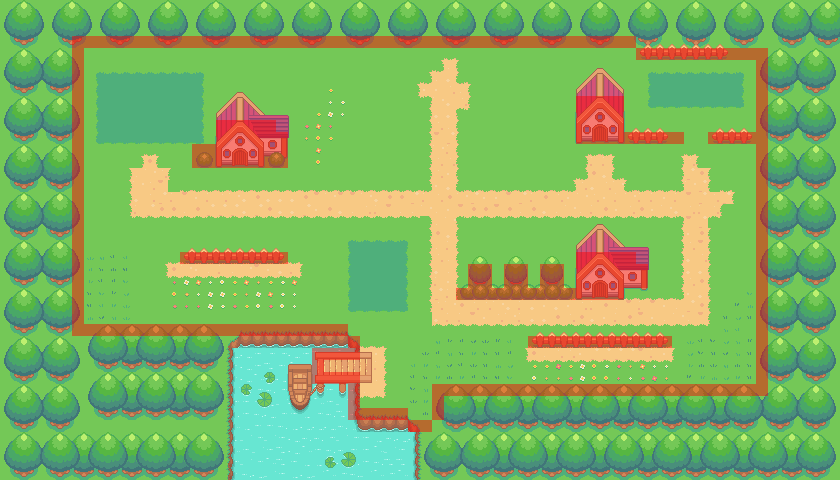
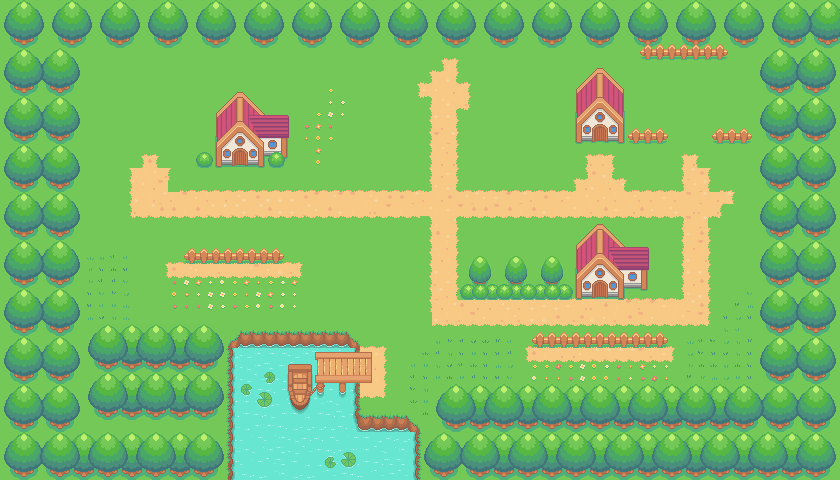
added the ACTUAL map this time

diff --git a/script.js b/script.js
@@ -9,7 +9,7 @@ context.fillStyle = "white";
 context.fillRect(0, 0, canvas.width, canvas.height);
 
 const image = new Image();
-image.src = "./img/My Map.png";
+image.src = "./img/Tomo Valley Map.png";
 console.log(image);
 
 image.onload = () => {
